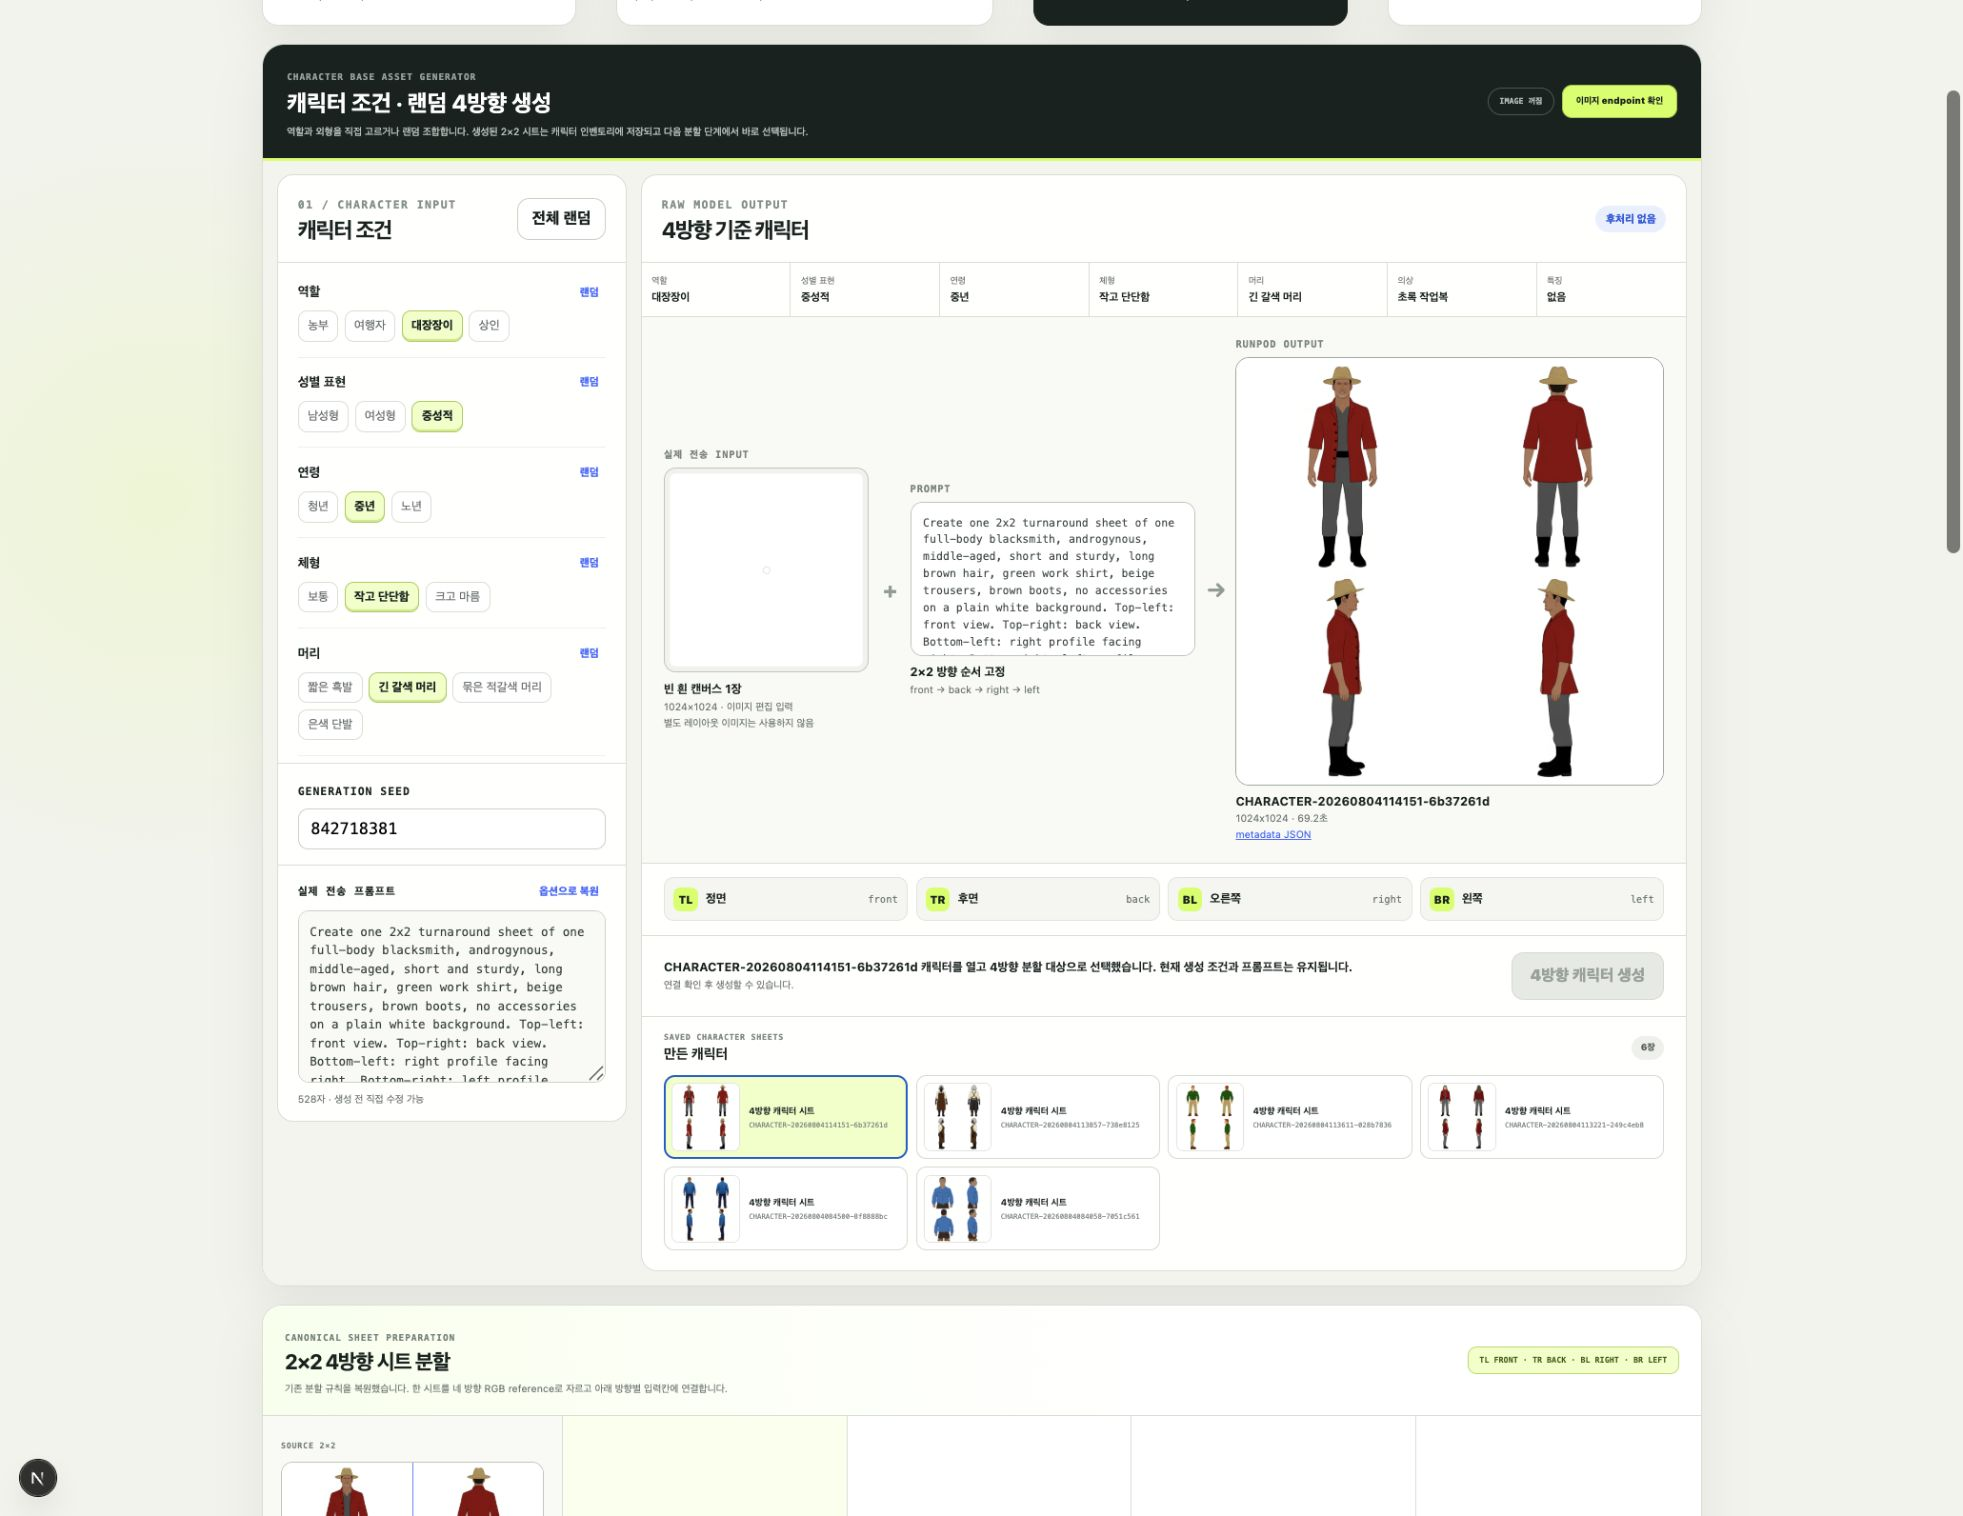
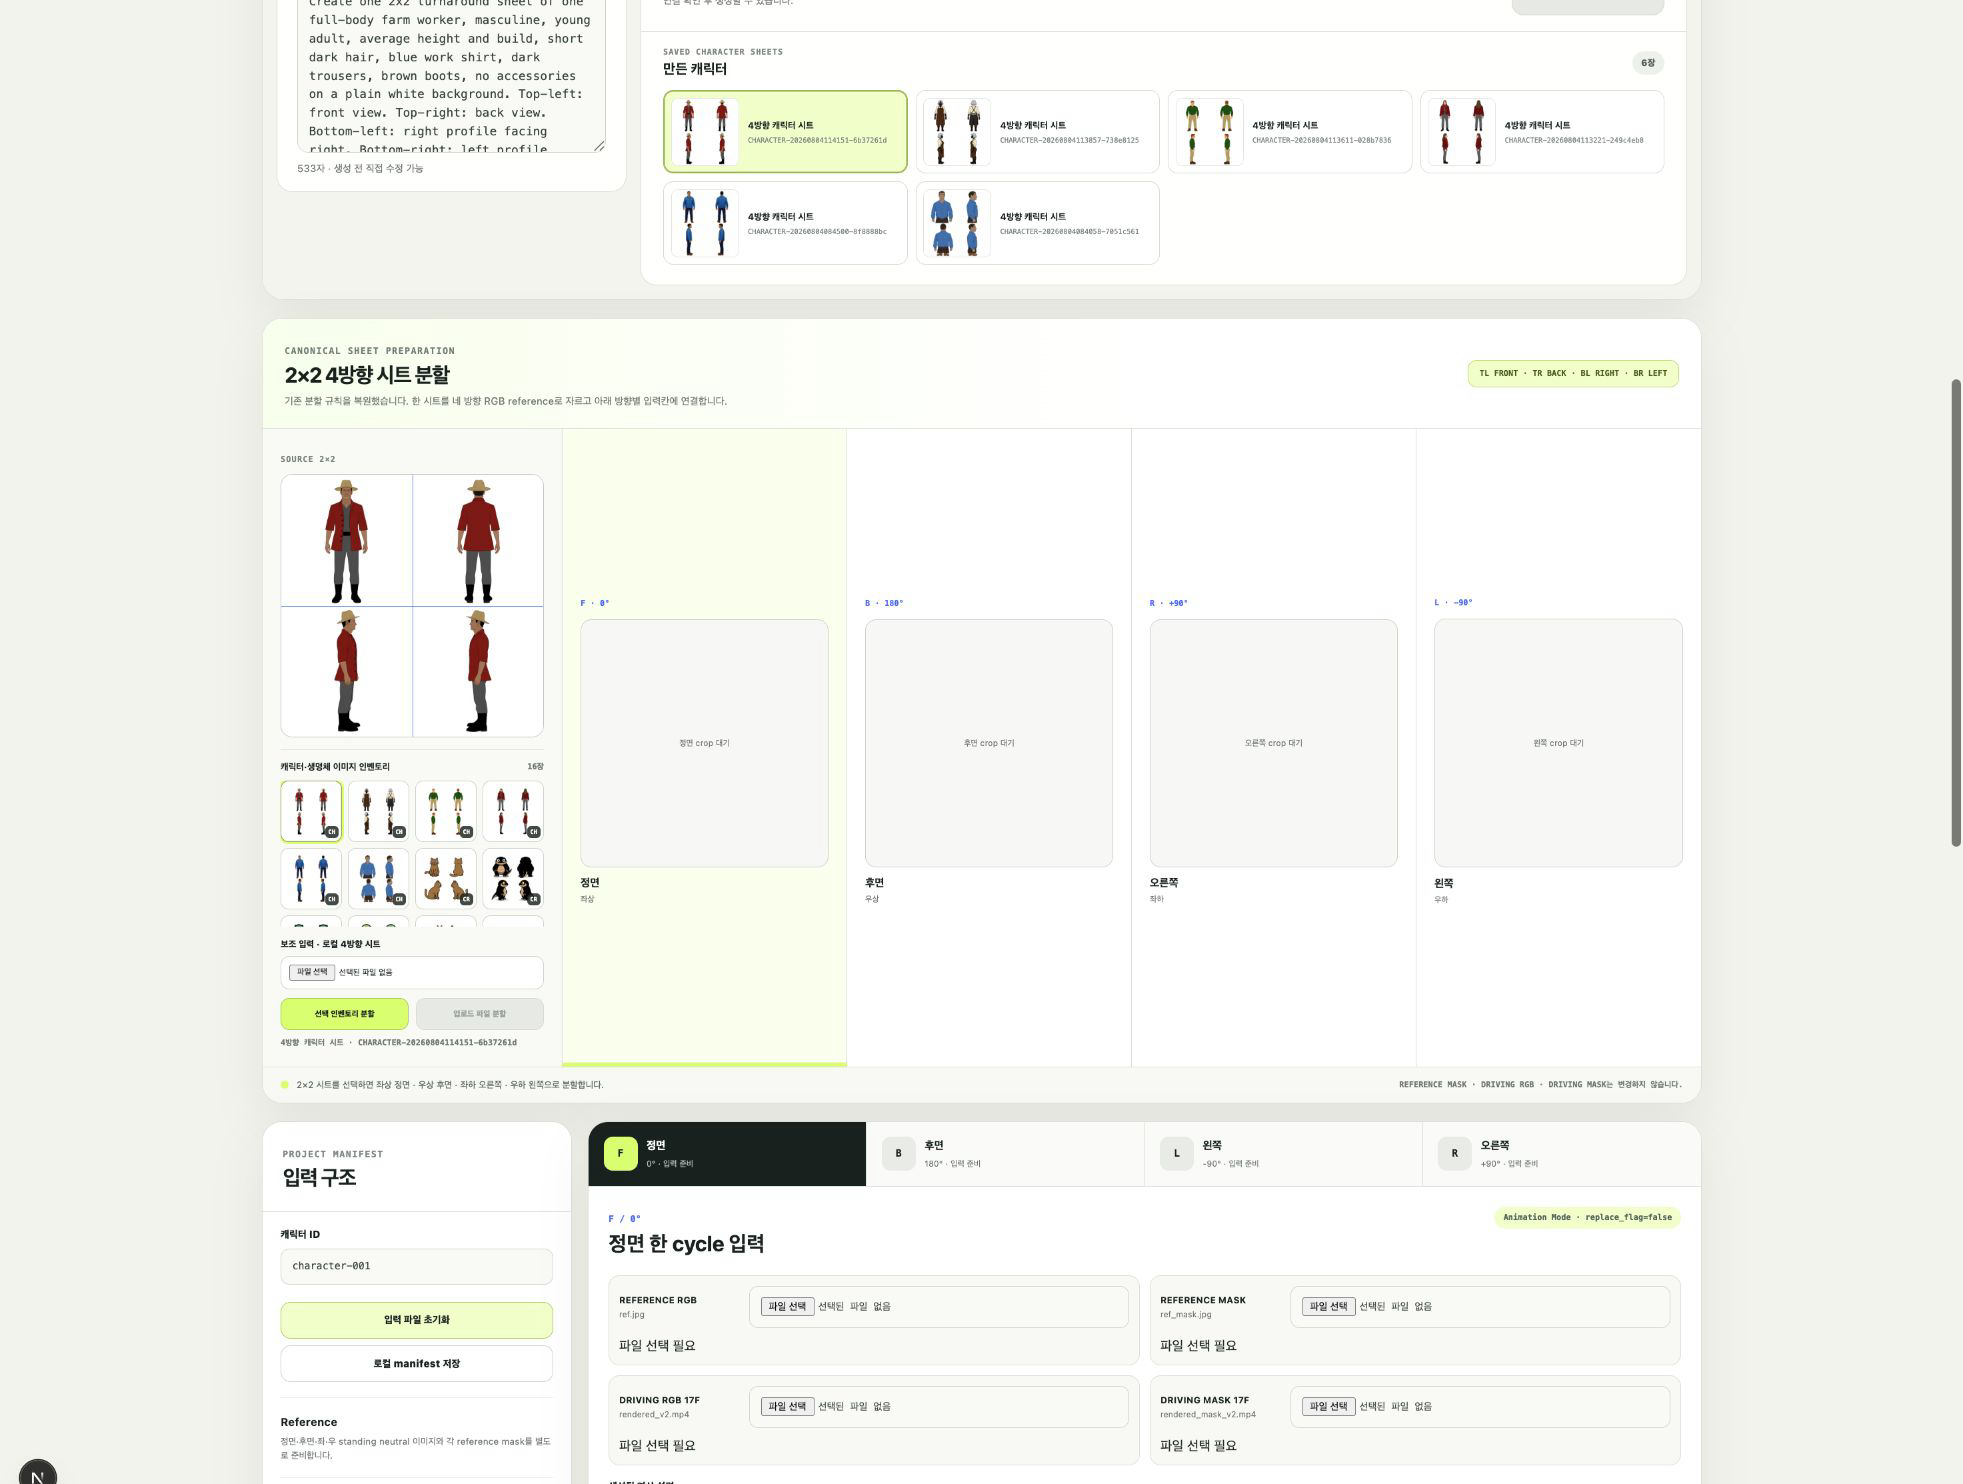
docs: refresh README and workbench captures

diff --git a/README.md b/README.md
@@ -1,101 +1,129 @@
 # 2D Assets Generator
 
-농장 생활 RPG에 필요한 타일, 오브젝트, 캐릭터, 생명체와 동작 에셋의 생성 방식을 실험하고 기록하는 저장소입니다.
+농장 생활 RPG에 필요한 타일, 오브젝트, 캐릭터, 생명체, 아이템, VFX와 UI 에셋을 항목별로 생성하고 보관하기 위한 로컬 작업 도구입니다.
 
-## 현재 현황
+현재 저장소는 완성된 생성 품질을 보여주는 결과물이 아닙니다. 수천 개의 에셋을 실제로 관리할 수 있는 입력 구조, 저장 방식, 방향 분할과 동작 생성 흐름을 확인하기 위한 작업 현황입니다.
 
-현재 결과는 성공 사례가 아니라 생성 구조와 실패 조건을 확인하기 위한 기록입니다. 디버깅 화면은 두 작업을 분리해서 다룹니다.
+## 현재 화면
 
-- 타일·오브젝트·캐릭터·생명체·아이템·VFX·UI 기준 에셋: 로컬 화면에서 항목별 프롬프트를 편집하고, 사용자가 설정한 self-hosted 이미지 endpoint에 생성 요청
-- 캐릭터 기준 시트: 역할·성별 표현·연령·체형·머리·의상·특징을 직접 선택하거나 랜덤 조합해 `2×2` 4방향 캐릭터를 생성하고, 만든 캐릭터 인벤토리에 누적 저장
-- 캐릭터 4방향 걷기 동작: 준비된 방향별 입력을 SCAIL-2에 전달해 동작 전이
+### 캐릭터 조건과 4방향 기준 시트
 
-두 endpoint는 서로 대체하지 않습니다. 기존 전체 에셋 목록과 항목별 생성 칸을 유지하면서 SCAIL-2 동작 실험을 함께 기록합니다.
+캐릭터의 역할, 성별 표현, 연령, 체형, 머리, 의상과 특징을 선택하거나 랜덤으로 조합합니다. 실제 전송 prompt를 직접 수정할 수 있으며, 생성된 `2×2` 4방향 시트는 캐릭터 인벤토리에 계속 저장됩니다.
 
-정면·후면·왼쪽·오른쪽 기준 이미지와 마스크는 미리 준비합니다. 하나의 정확한 17-frame 제자리 걷기 동작을 네 고정 카메라로 렌더링하고, 같은 동작과 timing을 SCAIL-2 Animation Mode로 네 방향에 각각 전이합니다.
+![캐릭터 조건과 4방향 기준 시트](tools_test/public/screenshots/current-workbench.png)
 
-캐릭터가 `2×2` 4방향 시트 한 장으로 저장되어 있다면 디버깅 화면에서 다시 네 장으로 분할할 수 있습니다. 분할 순서는 `좌상=정면`, `우상=후면`, `좌하=오른쪽`, `우하=왼쪽`입니다. 이 단계는 모델 생성이나 결과 후처리가 아니라 SCAIL-2 job을 등록하기 전 `Reference RGB` 입력을 준비하는 작업입니다. 분할은 RGB만 대상으로 하며 reference mask와 driving RGB·mask는 바꾸지 않습니다.
+### 저장된 4방향 시트 분할과 방향별 입력
 
-## 현재 디버깅 화면
+인벤토리에서 캐릭터 또는 생명체의 `2×2` 시트를 선택하고 `좌상=정면`, `우상=후면`, `좌하=오른쪽`, `우하=왼쪽` 규칙으로 네 Reference RGB를 만듭니다. Reference mask와 방향별 Driving RGB·mask는 별도 입력입니다.
 
-2026-08-12 기준 로컬 `http://localhost:3000` 화면입니다. 캐릭터 조건·랜덤 조합, 직접 수정 가능한 생성 prompt, 기존 4방향 캐릭터 선택, 저장 인벤토리와 방향별 분할 입력을 한 화면에서 확인합니다.
+![4방향 시트 분할과 SCAIL-2 입력](tools_test/public/screenshots/current-character-generator.png)
 
-![현재 4-View Walk Factory 화면](tools_test/public/screenshots/current-workbench.png)
+### 에셋 목록과 항목별 이미지 인벤토리
 
-![캐릭터 조건·랜덤 생성과 저장 캐릭터 인벤토리](tools_test/public/screenshots/current-character-generator.png)
+타일·오브젝트·캐릭터·생명체·아이템·VFX·UI·가이드 목록을 유지합니다. 목록의 각 항목마다 prompt와 seed를 편집하고, 생성 이미지 또는 직접 업로드한 이미지를 여러 장 저장하고 선택하거나 제거할 수 있습니다.
 
-## 생성 구조
+![에셋 목록과 항목별 이미지 인벤토리](tools_test/public/screenshots/current-asset-catalog.png)
+
+## 도구가 다루는 작업
+
+### 기준 에셋 생성과 보관
+
+- 타일, 오브젝트, 캐릭터, 생명체, 아이템, VFX, UI, 가이드의 생성 대상 목록
+- 대상마다 독립된 생성 prompt와 seed
+- 생성 이미지와 직접 업로드한 이미지의 항목별 인벤토리
+- 저장 이미지 선택, 크게 보기와 개별 제거
+- 캐릭터 조건 선택과 유형별 랜덤 조합
+- 캐릭터 `2×2` 4방향 시트 생성 및 누적 저장
+
+생성 이미지와 메타데이터는 로컬 `tools_test/app/generated/` 아래에 저장합니다. 화면의 인벤토리는 이 파일들을 다시 읽어 구성하므로 최신 결과 하나만 사용하는 구조가 아닙니다.
+
+### 4방향 걷기 동작 생성
+
+SCAIL-2에는 방향마다 다음 네 파일을 하나의 job으로 전달합니다.
+
+| 입력 | 역할 |
+|---|---|
+| Reference RGB | 해당 방향의 캐릭터 또는 생명체 외형 |
+| Reference mask | Reference RGB의 대상 영역 |
+| Driving RGB 17F | 해당 방향에서 렌더링한 17-frame closed walk |
+| Driving mask 17F | Driving RGB의 대상 영역 |
+
+정면·후면·왼쪽·오른쪽은 하나의 rig와 하나의 animation timeline을 네 고정 카메라로 렌더한 Driving 영상을 사용합니다. 자세와 발 순서는 prompt가 아니라 Driving RGB가 결정합니다.
+
+## 전체 흐름
 
 ```text
-로컬 클라이언트
-  ├─ 2×2 canonical 시트 → 방향별 reference RGB 분할
-  ├─ 방향별 reference RGB + reference mask
-  └─ 방향별 driving RGB 17F + driving mask 17F
-        │ Python client 직접 또는 :3000 Next API proxy로 multipart 전송
-        ▼
+로컬 :3000 화면
+  ├─ 기준 에셋 목록과 항목별 인벤토리
+  ├─ 캐릭터 조건·랜덤 4방향 시트 생성
+  ├─ 저장된 2×2 시트 선택과 네 방향 RGB 분할
+  └─ 방향별 RGB·mask·17F driver를 Next API에 전달
+                         │
+                         ▼
+로컬 Next API proxy
+  ├─ RunPod endpoint와 token은 서버 환경변수에서만 읽음
+  └─ multipart 등록·상태 조회·결과 다운로드를 중계
+                         │
+                         ▼
 RunPod On-Demand Pod
-  ├─ uv Python 환경
-  ├─ SCAIL-2 공식 wan-scail2 코드와 checkpoint
-  ├─ FastAPI + 단일 GPU queue
-  ├─ 방향마다 한 cycle 생성
-  └─ front/back/right/left raw MP4 생성
-        │ 인증된 결과 endpoint에서 MP4 다운로드
-        ▼
+  ├─ SCAIL-2를 Pod 시작 시 한 번 로드
+  ├─ FastAPI :8000
+  ├─ 단일 GPU 직렬 queue
+  ├─ 202 + job_id 반환
+  └─ 방향별 raw MP4 생성
+                         │
+                         ▼
 로컬 클라이언트
-  ├─ 원본 MP4 저장·표시
-  ├─ 네 방향 완료 뒤 동일 phase PNG 추출
-  └─ 저장 성공 뒤 RunPod job 입력·결과 임시파일 삭제
+  ├─ MP4 다운로드와 재생
+  ├─ 네 방향 생성 완료 후 동일 phase PNG 추출
+  └─ 다운로드 확인 후 RunPod 임시 job 제거
 ```
 
-Pod 안에서는 프레임 추출, 픽셀화, 스프라이트 패킹을 하지 않습니다. 네 방향의 원본 영상 생성이 모두 끝난 뒤 로컬에서 8 phase를 추출하고 검수합니다. Frame 16은 Frame 0과 같은 자세로 닫히는지 확인하는 loop closure 용도이며 최종 8장에는 포함하지 않습니다.
+브라우저는 RunPod로 직접 요청하지 않습니다. 같은 origin의 Next API proxy만 호출하므로 token이 브라우저에 노출되지 않고 RunPod 서버에 별도 CORS 허용도 필요하지 않습니다. Python 클라이언트는 RunPod FastAPI에 직접 요청할 수 있습니다.
 
-SCAIL-2는 2026-08-12 기준 vLLM-Omni 공식 지원 모델이 아닙니다. RunPod의 FastAPI adapter가 공식 SCAIL-2 pipeline을 로드합니다. Python 클라이언트는 RunPod에 직접 요청하고, 브라우저는 token을 노출하지 않도록 같은 origin의 Next API proxy를 사용합니다. S3, bucket과 서버 내부 출력 경로는 사용하지 않습니다.
+## SCAIL-2 처리 규칙
 
-## 방향별 입력
+- SCAIL-2는 vLLM으로 실행하지 않습니다. RunPod FastAPI adapter가 공식 pipeline을 직접 로드합니다.
+- SCAIL config는 공식 저장소 내부 파일의 절대경로로 전달합니다.
+- Driving RGB와 Driving mask는 GPU queue에 넣기 전에 각각 정확히 17프레임인지 검사합니다.
+- 모델 생성은 raw MP4까지 담당합니다.
+- PNG 추출, 픽셀화, 리사이즈와 스프라이트 패킹은 네 방향 생성이 모두 끝난 뒤 로컬에서 따로 실행합니다.
+- `0·2·4·6·8·10·12·14` 프레임을 동일 phase 후보로 사용합니다.
+- Frame 16은 Frame 0과 같은 자세로 닫히는지 확인하는 loop closure 검사용이며 최종 8장에서는 제외합니다.
+- RunPod HTTP 연결에 긴 추론을 매달지 않고 `POST → 202 job_id → polling → output download` 순서로 처리합니다.
 
-| 입력 | 파일 예시 | 역할 |
-|---|---|---|
-| Reference RGB | `references/character-001/front/ref.jpg` | 승인된 방향별 캐릭터 외형 |
-| Reference mask | `references/character-001/front/ref_mask.jpg` | reference 인물 영역 |
-| Driving RGB | `drivers/master-walk-17f/front/rendered_v2.mp4` | 정확한 17-frame 제자리 걷기 |
-| Driving mask | `drivers/master-walk-17f/front/rendered_mask_v2.mp4` | driving 인물 영역 |
-
-네 방향은 서로 다른 동작을 추론하지 않습니다. 하나의 rig, 하나의 animation timeline, 하나의 보행 cycle을 정면·후면·왼쪽·오른쪽 고정 카메라로 렌더합니다. 자세와 발 순서는 prompt가 아니라 driving RGB가 결정하고, prompt는 생성될 영상의 방향·외형·고정 조건만 설명합니다.
-
-## 로컬 디버깅 화면
+## 로컬 실행
 
 ```bash
 cd tools_test
 cp .env.example .env.local
-# .env.local에 기준 에셋 이미지 endpoint와 SCAIL-2 Pod 값을 입력
 npm install
 npm run dev
 ```
 
-브라우저에서 `http://localhost:3000`을 엽니다. 화면에서 할 수 있는 일은 다음과 같습니다.
+브라우저에서 `http://localhost:3000`을 엽니다.
 
-- SCAIL-2 Pod 상태와 내부 queue 확인
-- 기존 8대 에셋 목록에서 항목별 생성 대상 선택
-- 타일·오브젝트·캐릭터 등 항목마다 생성 프롬프트와 seed 편집
-- 기준 에셋 이미지 endpoint 연결 확인과 생성
-- 항목마다 모델 생성본 또는 직접 업로드한 사진을 여러 장 영구 보관
-- 저장된 이미지 썸네일 선택, 크게 보기, 개별 제거
-- 캐릭터·생명체 인벤토리 이미지 또는 업로드한 2×2 시트를 네 방향 RGB로 분할
-- 분할 결과를 각 방향 탭에서 확인하고 `REFERENCE RGB` 입력에 자동 연결
-- 방향별 네 로컬 입력 파일과 positive prompt 편집
-- 한 방향 또는 네 방향 job 등록
-- job 상태, 원본 MP4 재생·다운로드, 실행 시간 확인
-- MP4 저장 뒤 방향별 RunPod 임시 job 삭제
-- 로컬 입력 manifest 저장
-- 동일 phase 32 PNG 추출 규칙 확인
+```dotenv
+# 기준 에셋 이미지 endpoint
+RUNPOD_BASE_URL=
+RUNPOD_API_KEY=
+RUNPOD_MODEL_ID=
 
-기준 에셋 이미지 endpoint는 `RUNPOD_BASE_URL`, `RUNPOD_API_KEY`, `RUNPOD_MODEL_ID`에서 읽고, 동작 endpoint는 `SCAIL2_BASE_URL`, `SCAIL2_API_TOKEN`에서 읽습니다. 실제 endpoint와 token은 코드나 manifest에 넣지 않고 `.env.local`에서만 관리합니다.
+# SCAIL-2 FastAPI endpoint
+SCAIL2_BASE_URL=
+SCAIL2_API_TOKEN=
+```
 
-## RunPod와 로컬 클라이언트
+실제 endpoint와 token은 코드, README와 manifest에 기록하지 않습니다.
 
-빈 RunPod Pod에서는 공식 `zai-org/SCAIL-2`만 `git clone`합니다. FastAPI adapter는 RunPod 터미널에서 `cat <<'EOF'`로 직접 생성합니다. `uv` 환경 구성, 모델 다운로드·변환, FastAPI 실행과 로컬 요청·다운로드 방법은 [RunPod SCAIL-2 서버와 로컬 클라이언트 실행 가이드](docs/RUNPOD_SCAIL2_GUIDE.md)에 정리했습니다.
+## RunPod와 로컬의 책임
 
-`runpod/scail2_api/`는 RunPod에서 실행하고 `runpod/scail2_client/`와 `tools_test/`는 로컬에서 실행합니다. 서버는 SCAIL config를 공식 저장소 기준 절대경로로 읽고, driving RGB·mask가 각각 정확히 17프레임인지 GPU queue 등록 전에 검증합니다. 클라이언트는 네 입력 파일을 multipart로 전송하고, 완료된 MP4를 내려받은 뒤 원격 임시 job을 정리합니다.
+| 위치 | 실행하는 것 |
+|---|---|
+| RunPod | 공식 `zai-org/SCAIL-2` clone, `uv` 환경 구성, checkpoint 준비, FastAPI adapter 실행, GPU 추론 |
+| 로컬 | `tools_test` 화면, 에셋 인벤토리, multipart 요청, polling, MP4 다운로드, 프레임 추출과 후처리 |
+
+빈 RunPod Pod에서 개인 프로젝트 저장소를 clone하거나 `scp`로 파일을 옮기는 과정은 필요하지 않습니다. RunPod 터미널에서 공식 SCAIL-2 저장소를 clone하고 FastAPI adapter 파일을 `cat <<'EOF'`로 만드는 전체 명령은 [RunPod SCAIL-2 실행 가이드](docs/RUNPOD_SCAIL2_GUIDE.md)에 정리했습니다.
 
 ## 에셋 범위 문서
 
@@ -105,13 +133,12 @@ npm run dev
 - [오브젝트 카탈로그](docs/OBJECT_CATALOG.md)
 - [캐릭터·오브젝트 상대 크기 규격](docs/SCALE_SYSTEM.md)
 - [SCAIL-2 4방향 걷기 생성 전략](docs/SCAIL2_WALK_CYCLE_STRATEGY.md)
-- [RunPod SCAIL-2 서버와 로컬 클라이언트 실행 가이드](docs/RUNPOD_SCAIL2_GUIDE.md)
+- [RunPod SCAIL-2 실행 가이드](docs/RUNPOD_SCAIL2_GUIDE.md)
 
-## 검수 원칙
+## 현재 검수 기준
 
-- 4방향 모두 같은 character identity, 의상, 색상, 비율과 화면상 크기를 유지해야 합니다.
-- 모든 방향은 같은 ground baseline과 같은 phase timing을 사용해야 합니다.
-- 한 방향을 먼저 통과시킨 뒤 동일 설정으로 나머지 방향을 처리합니다.
-- 원본 영상 네 개가 모두 생성되기 전에 자동 후처리를 시작하지 않습니다.
-- 생성 모델 prompt에 픽셀화를 요구하지 않습니다.
-- 실패한 job과 원본 결과도 설정·seed·실행 시간과 함께 기록합니다.
+- 네 방향 모두 같은 캐릭터 정체성, 의상, 색상, 비율과 화면상 크기를 유지해야 합니다.
+- 네 방향 모두 같은 ground baseline과 같은 phase timing을 사용해야 합니다.
+- 생성 prompt에는 픽셀화를 요구하지 않습니다.
+- 네 방향의 원본 MP4가 모두 생성되기 전에 후처리를 자동으로 시작하지 않습니다.
+- 실패 결과도 입력, prompt, seed와 실행 시간을 함께 남겨 다음 실험에서 비교합니다.
